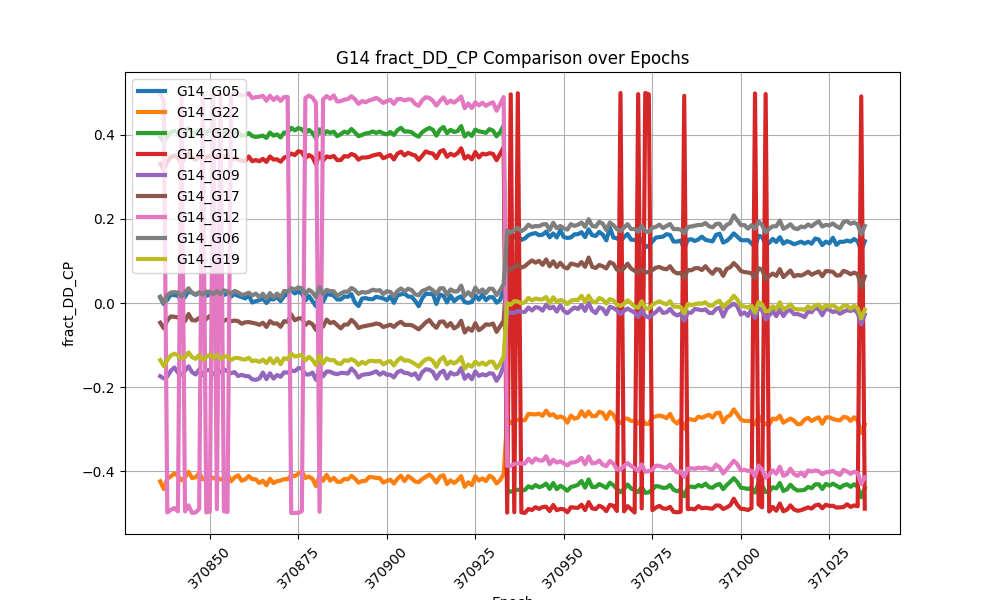
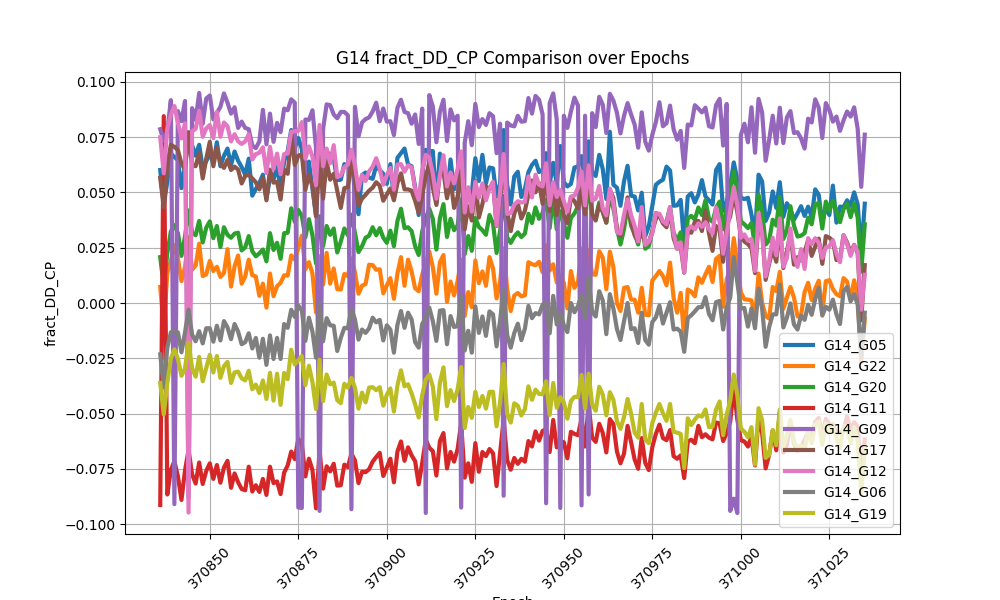
them phuong phap outlier de xu ly nhieu

diff --git a/DoubleDifferentNewDataVersion.py b/DoubleDifferentNewDataVersion.py
@@ -11,7 +11,7 @@ import matplotlib.pyplot as plt
 from sklearn.linear_model import LinearRegression
 from scipy.interpolate import interp1d
 from numpy.polynomial.polynomial import polyfit
-
+from scipy.signal import savgol_filter, butter, filtfilt
 from datetime import datetime, timedelta
 
 list_satellite = ['G01', 'G02', 'G03', 'G04','G05', 'G06', 'G07', 'G08', 'G09', 'G10', 
@@ -163,136 +163,6 @@ def  compute_dt_seconds(t_rx_utc_str):
         "gps_week_start": gps_week_start,
         "t_rx_toe": t_rx_toe,
     }
-
-
-def read_rinex_observation_Doppler(file_path, isClock):
-    """
-    Đọc file RINEX và trích xuất dữ liệu cần thiết.
-    Trả về DataFrame chứa: thời gian (epoch), số hiệu vệ tinh, và pseudorange.
-    """
-    data = []
-    reading_data = False
-    epoch_time = ''
-    clock_bias = 0
-
-
-
-    with open(file_path, 'r') as file:
-        lines = file.readlines()[20:LINE_COUNT]
-
-        for line in lines:
-
-            if line.startswith('>'):  # Epoch bắt đầu bằng ký tự '>'
-                epoch_time = line[1:25].strip()  # Lấy thời gian epoch
-
-                new_epoch = calc_gps_seconds(epoch_time)
-
-            if not reading_data:
-                if line.startswith('>'):  # Epoch bắt đầu bằng ký tự '>'
-                    reading_data = True
-            else:
-                if line.strip() == '':
-                    continue
-
-                # Split dong bang khoang trang hoac tab
-                parts = line.split()
-                if len(parts) < 2:
-                    continue
-
-                satellite_id = parts[0]  # Lấy số hiệu vệ tinh
-                if satellite_id in list_satellite:
-                    
-                    doppler_str = line[133:146]
-                    if doppler_str.isspace():
-                        doppler = 0
-                    else:
-                        doppler = float(doppler_str)
-                    data.append(( new_epoch, epoch_time, satellite_id, doppler))
-    return pd.DataFrame(data, columns=['epoch','epoch_time','PRN','doppler'])
-
-
-def read_rinex_observation_NguyenDS2(file_path,observation_file_doppler, isClock):
-    """
-    Đọc file RINEX và trích xuất dữ liệu cần thiết.
-    Trả về DataFrame chứa: thời gian (epoch), số hiệu vệ tinh, và pseudorange.
-    """
-    obs_data_doppler = read_rinex_observation_Doppler(observation_file_doppler, IS_CLOCK2)
-    data = []
-    reading_data = False
-    epoch_time = ''
-    clock_bias = 0
-    count_line = 0
-    with open(file_path, 'r') as file:
-        lines = file.readlines()[20:LINE_COUNT]
-
-        for line in lines:
-
-            if line.startswith('>'):  # Epoch bắt đầu bằng ký tự '>'
-                epoch_time = line[1:24].strip()  # Lấy thời gian epoch
-                _, gps_seconds = cal2gpstime(epoch_time) 
-
-                parts = line.split()
-                clock_bias = parts[9]
-
-            if not reading_data:
-                if line.startswith('>'):  # Epoch bắt đầu bằng ký tự '>'
-                    reading_data = True
-            else:
-                if line.strip() == '':
-                    continue
-
-                # Split dong bang khoang trang hoac tab
-                parts = line.split()
-                if len(parts) < 2:
-                    continue
-
-                satellite_id = parts[0]  # Lấy số hiệu vệ tinh
-                if satellite_id in list_satellite:
-                    pseudorange = parts[1]  # Lấy pseudorange
-                    carrier_phase_str = parts[3] # lay carrier phase
-                    
-                    if carrier_phase_str.isspace():
-                        carrier_phase = 0
-                    else:
-                        carrier_phase = float(carrier_phase_str)
-
-                    if pseudorange and carrier_phase != 0:
-                        newPseudorange = float(pseudorange) - (-c*float(clock_bias))
-                        # if isClock == 1:
-                        #     newPseudorange = float(pseudorange)
-                        # else:
-                        #     newPseudorange = float(pseudorange) - (c*float(clock_bias))
-                        new_epoch = round( gps_seconds - (-float(clock_bias)))
-
-                        # Lọc Doppler từ obs_data_doppler dựa trên epoch_time và PRN
-
-                        # doppler_value = obs_data_doppler.loc[(calc_gps_seconds(obs_data_doppler['epoch_time']) == calc_gps_seconds(epoch_time)) & 
-                        #              (obs_data_doppler['PRN'] == satellite_id), 'doppler'].values
-                        # Lọc giá trị Doppler từ obs_data_doppler theo epoch và PRN
-                        gps_seconds
-                        doppler_value = obs_data_doppler.loc[
-                            (obs_data_doppler['epoch'] == gps_seconds) & 
-                            (obs_data_doppler['PRN'] == satellite_id), 'doppler'
-                        ].values
-
-
-
-                        if len(doppler_value) > 0:
-                            doppler = doppler_value[0]  # Lấy giá trị Doppler từ dữ liệu đã đọc
-                        else:
-                            doppler = 0  # Nếu không có Doppler, gán giá trị mặc định
-
-                        
-
-                        # data.append((epoch_time, satellite_id, newPseudorange, carrier_phase))
-                        new_carrier_phase = carrier_phase - (-float(clock_bias))*doppler
-
-
-
-                        data.append((new_epoch, epoch_time, satellite_id, newPseudorange, new_carrier_phase, doppler))
-    return pd.DataFrame(data, columns=['epoch', 'epoch_time', 'PRN', 'pseudorange', 'carrier_phase','doppler'])
-
-
 # doc file rinex 3.04
 def read_rinex_observation_haidv(file_path):
     """
@@ -725,12 +595,12 @@ def calculate_double_difference(merged_smoothed_data):
                     diff_carrier_phase_sat2 = epoch_data[epoch_data['PRN'] == sat2]['difference_carrier_phase'].values[0]
 
                     # Tính double_difference
-                    double_diff_carrier_phase = (diff_carrier_phase_sat1 - diff_carrier_phase_sat2) * Lamda_L1
+                    double_diff_carrier_phase = (diff_carrier_phase_sat1 - diff_carrier_phase_sat2) 
                     # double_diff = abs(diff_sat1) - abs(diff_sat2)
 
                     fract_double_diff_carrier_phase = double_diff_carrier_phase - round(double_diff_carrier_phase)
                     
-                    fract_double_diff_carrier_phase = fract_double_diff_carrier_phase
+                    fract_double_diff_carrier_phase = fract_double_diff_carrier_phase * Lamda_L1
                     # Tính μ_i^2 và cộng vào tổng (sos)
                     if not pd.isna(fract_double_diff_carrier_phase):
                         sos += omega_i * (fract_double_diff_carrier_phase ** 2)
@@ -964,3 +834,136 @@ def plot_fract_DD_CP_linear_regression(merged_smoothed_data_double, folder_path)
 # Thêm lệnh gọi hàm mới
 plot_fract_DD_CP_linear_regression(merged_smoothed_data_double_3x, r'PLOT\external\D2025_04_21_doplerConvert\fract_DD_CP_LinearRegression')
 
+def plot_all_double_difference_comparisons_outlier(merged_smoothed_data_double, folder_path, label1, label2, key):
+    """
+    Vẽ biểu đồ double difference sau khi đã lọc outlier sử dụng phương pháp IQR.
+    """
+    plot_data = merged_smoothed_data_double
+    
+    for reference_satellite in list_satellite:
+        reference_data = plot_data[plot_data['PRN_1'] == reference_satellite]
+        
+        if len(reference_data) == 0:
+            continue
+            
+        plt.figure(figsize=(10, 6))
+        
+        for satellite_diff in plot_data['PRN_difference'].unique():
+            if satellite_diff.startswith(reference_satellite):
+                satellite_diff_data = plot_data[plot_data['PRN_difference'] == satellite_diff]
+                if len(satellite_diff_data) > 0:
+                    # Lấy dữ liệu gốc
+                    x = satellite_diff_data['epoch'].values
+                    y = satellite_diff_data[f'{key}'].values
+                    
+                    # Xử lý giá trị NaN
+                    mask = ~np.isnan(y)
+                    if np.sum(mask) > 3:  # Kiểm tra đủ điểm dữ liệu
+                        x_valid = x[mask]
+                        y_valid = y[mask]
+                        
+                        # Loại bỏ outlier sử dụng IQR
+                        q1 = np.percentile(y_valid, 25)
+                        q3 = np.percentile(y_valid, 75)
+                        iqr = q3 - q1
+                        lower_bound = q1 - 1.5 * iqr
+                        upper_bound = q3 + 1.5 * iqr
+                        
+                        outlier_mask = (y_valid >= lower_bound) & (y_valid <= upper_bound)
+                        x_filtered = x_valid[outlier_mask]
+                        y_filtered = y_valid[outlier_mask]
+                        
+                        # Vẽ điểm dữ liệu gốc mờ
+                        plt.scatter(x_valid, y_valid, alpha=0.2, s=10)
+                        plt.plot(x_filtered, y_filtered, label=satellite_diff, linewidth=3)
+        
+        plt.xlabel('Epoch')
+        plt.xticks(rotation=45)
+        plt.ylabel(f'{label1}')
+        plt.title(f'{reference_satellite} {label2} Comparison (Outlier Filtered)')
+        plt.legend()
+        plt.grid()
+        
+        plt.savefig(os.path.join(folder_path, f'{reference_satellite}_{label2}_outlier_Comparison.png'))
+        plt.close()
+
+# Gọi hàm với phương pháp lọc outlier
+plot_all_double_difference_comparisons_outlier(
+    merged_smoothed_data_double_3x,
+    r'PLOT\external\D2025_04_21_doplerConvert\carrier_phase_fract_filtered_outlier',
+    'fract_DD_CP', 'fract_DD_CP', 'fract_DD_CP'
+)
+
+def plot_fract_DD_CP_linear_regression_outlier(merged_smoothed_data_double, folder_path):
+    """
+    Vẽ biểu đồ fract_DD_CP theo epoch sử dụng hồi quy tuyến tính (Linear Regression)
+    sau khi đã lọc dữ liệu bằng phương pháp loại bỏ outlier.
+    """
+    plot_data = merged_smoothed_data_double
+    
+    for reference_satellite in list_satellite:
+        reference_data = plot_data[plot_data['PRN_1'] == reference_satellite]
+        
+        if len(reference_data) == 0:
+            continue
+            
+        plt.figure(figsize=(12, 8))
+        
+        for satellite_diff in plot_data['PRN_difference'].unique():
+            if satellite_diff.startswith(reference_satellite):
+                satellite_diff_data = plot_data[plot_data['PRN_difference'] == satellite_diff]
+                if len(satellite_diff_data) > 0:
+                    # Lấy dữ liệu gốc
+                    x = satellite_diff_data['epoch'].values
+                    y = satellite_diff_data['fract_DD_CP'].values
+                    
+                    # Xử lý giá trị NaN
+                    mask = ~np.isnan(y)
+                    if np.sum(mask) > 3:  # Kiểm tra đủ điểm dữ liệu
+                        x_valid = x[mask]
+                        y_valid = y[mask]
+                        
+                        # Loại bỏ outlier sử dụng IQR
+                        q1 = np.percentile(y_valid, 25)
+                        q3 = np.percentile(y_valid, 75)
+                        iqr = q3 - q1
+                        lower_bound = q1 - 1.5 * iqr
+                        upper_bound = q3 + 1.5 * iqr
+                        
+                        outlier_mask = (y_valid >= lower_bound) & (y_valid <= upper_bound)
+                        x_filtered = x_valid[outlier_mask]
+                        y_filtered = y_valid[outlier_mask]
+                        
+                        # Kiểm tra đủ điểm dữ liệu cho hồi quy
+                        if len(x_filtered) > 1:
+                            # Thực hiện hồi quy tuyến tính trên dữ liệu đã lọc
+                            X_for_reg = x_filtered.reshape(-1, 1)
+                            model = LinearRegression()
+                            model.fit(X_for_reg, y_filtered)
+                            
+                            # Dự đoán giá trị hồi quy
+                            X_full = x.reshape(-1, 1)
+                            y_pred = model.predict(X_full)
+                            
+                            # Vẽ dữ liệu gốc và đường hồi quy
+                            plt.scatter(x_valid, y_valid, alpha=0.2, s=10)  # Dữ liệu gốc (mờ)
+                            plt.scatter(x_filtered, y_filtered, alpha=0.5, s=20)  # Dữ liệu đã lọc
+                            plt.plot(x, y_pred, label=f"{satellite_diff} (a={model.coef_[0]:.6f}, b={model.intercept_:.6f})", linewidth=2)
+        
+        plt.xlabel('Epoch')
+        plt.ylabel('fract_DD_CP')
+        plt.title(f'{reference_satellite} Linear Regression of fract_DD_CP (Outlier Filtered)')
+        plt.legend()
+        plt.grid(True)
+        plt.axhline(y=0, color='r', linestyle='--', alpha=0.5)
+        
+        plt.tight_layout()
+        
+        plt.savefig(os.path.join(folder_path, f'{reference_satellite}_fract_DD_CP_LinearRegression_outlier.png'))
+        plt.close()
+
+# Gọi hàm với phương pháp lọc outlier
+plot_fract_DD_CP_linear_regression_outlier(
+    merged_smoothed_data_double_3x,
+    r'PLOT\external\D2025_04_21_doplerConvert\fract_DD_CP_LinearRegression_outlier'
+)
